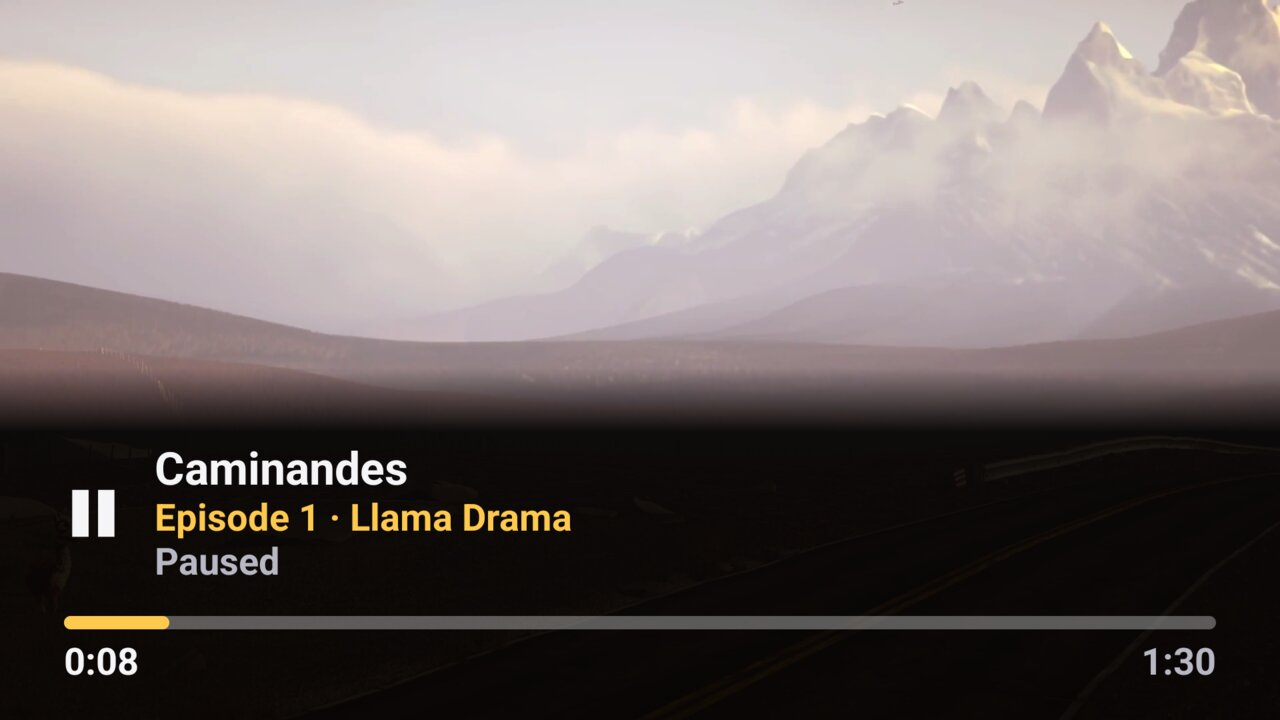
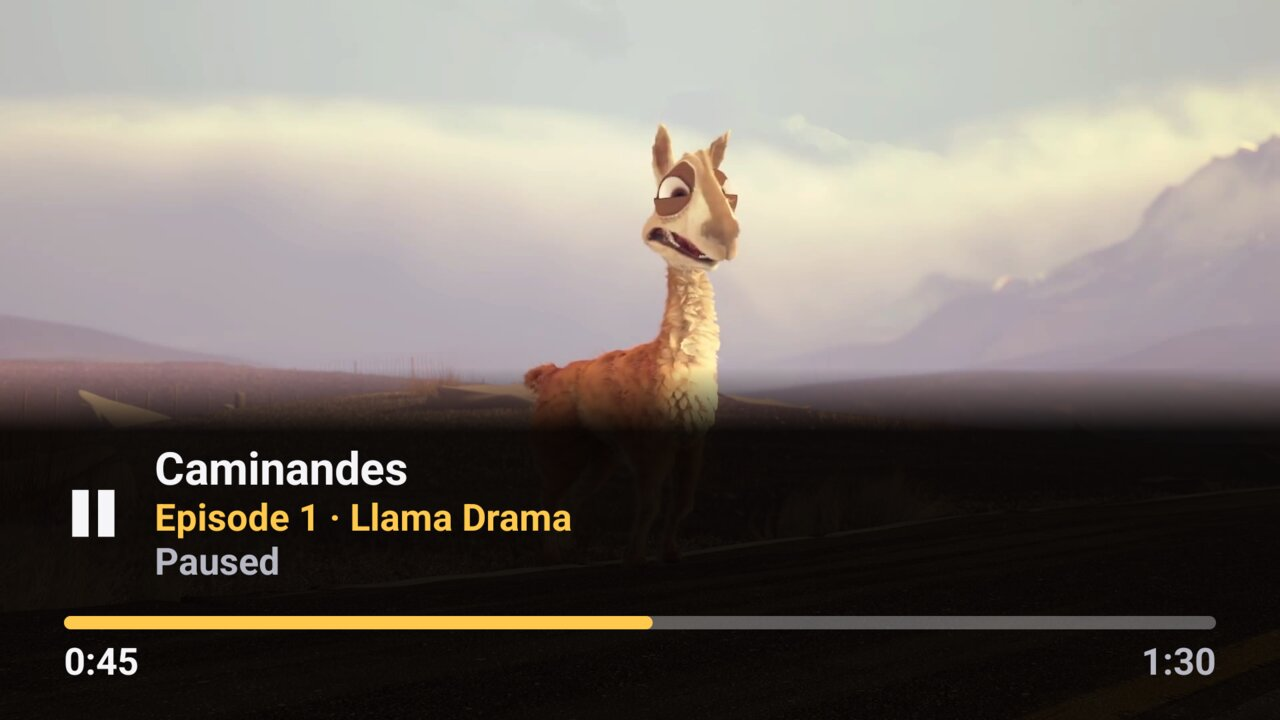
Screenshots: Home's portrait cards that open on focus (#22)
- tv-home.jpg: the six sample shows as poster cards, Caminandes open with
  "Continue", "Episode 1" and its progress bar over the blurred poster.
- tv-player.jpg: the same episode paused where that card resumes it, so the
  project page's OK demo goes from one to the other.
- admin-tv-page.jpg: a TV's Home screen tab, its Home drawn to scale, instead
  of the Now playing tab's old list of shows.
- share-card.jpg: the TV in the card shows the new Home.
- README, project page and og:image:alt describe the new pictures.

Taken from the TV emulator (API 36) and headless Chromium on a scratch
server with the sample catalog; tv-message.jpg still matches the app.

diff --git a/site/index.html b/site/index.html
@@ -15,7 +15,7 @@
   <meta property="og:image" content="https://mickeiik.github.io/izle/share-card.jpg">
   <meta property="og:image:width" content="1280">
   <meta property="og:image:height" content="640">
-  <meta property="og:image:alt" content="izle: Switch on. Press OK. It plays. Next to the TV's home screen of wide show cards and a remote with an OK button.">
+  <meta property="og:image:alt" content="izle: Switch on. Press OK. It plays. Next to the TV's home screen of poster cards, the focused one open, and a remote with an OK button.">
   <meta name="twitter:card" content="summary_large_image">
   <link rel="icon" href="icon.svg" type="image/svg+xml">
   <link rel="stylesheet" href="style.css">
@@ -47,7 +47,7 @@
       <figure class="tv-demo">
         <div class="tv">
           <div class="screen">
-            <img id="screen-home" src="images/tv-home.jpg" alt="The TV's home screen: a grid of wide cards with each show's name under it, the focused one says Episode 1" width="1280" height="720">
+            <img id="screen-home" src="images/tv-home.jpg" alt="The TV's home screen: a grid of poster cards; the focused one is open, with the show's name, Continue, Episode 1 and a progress bar" width="1280" height="720">
             <img id="screen-player" src="images/tv-player.jpg" alt="The player, paused: show, episode and a progress bar in large type" width="1280" height="720" hidden>
           </div>
         </div>
@@ -87,7 +87,7 @@
           <li>See the problems a TV ran into, and test every episode's sources</li>
         </ul>
       </div>
-      <img class="shot light" src="images/admin-tv-page.jpg" alt="The admin page of a TV: what is playing, playback buttons, a message box and the home screen's shows" width="1280" height="900" loading="lazy">
+      <img class="shot light" src="images/admin-tv-page.jpg" alt="The admin page of a TV, its Home screen tab: the TV's home drawn to scale, its grid, its sections and the chosen show" width="1280" height="900" loading="lazy">
     </section>
 
     <section class="feature-band">

diff --git a/README.md b/README.md
@@ -8,7 +8,7 @@ A senior-first Android TV player with a small self-hosted server. Project page: 
 
 | The TV: one screen, OK plays | The owner's admin page |
 |---|---|
-| ![The TV's home screen: a grid of wide cards with each show's name under it, the focused one says "Episode 1"](docs/images/tv-home.jpg) | ![The admin page of a TV: what is playing, playback buttons, a message box and the home screen's shows](docs/images/admin-tv-page.jpg) |
+| ![The TV's home screen: a grid of poster cards; the focused one is open, with the show's name, "Continue", "Episode 1" and a progress bar](docs/images/tv-home.jpg) | ![The admin page of a TV, its Home screen tab: the TV's home drawn to scale, its grid, its sections and the chosen show](docs/images/admin-tv-page.jpg) |
 | ![The player, paused: show, episode and a progress bar in large type](docs/images/tv-player.jpg) | ![A message from the owner, "Dinner is ready!", in large letters over the picture](docs/images/tv-message.jpg) |
 
 izle is built for a viewer who only knows classic TV: switch on, pick a "channel", it plays. The TV shows one
